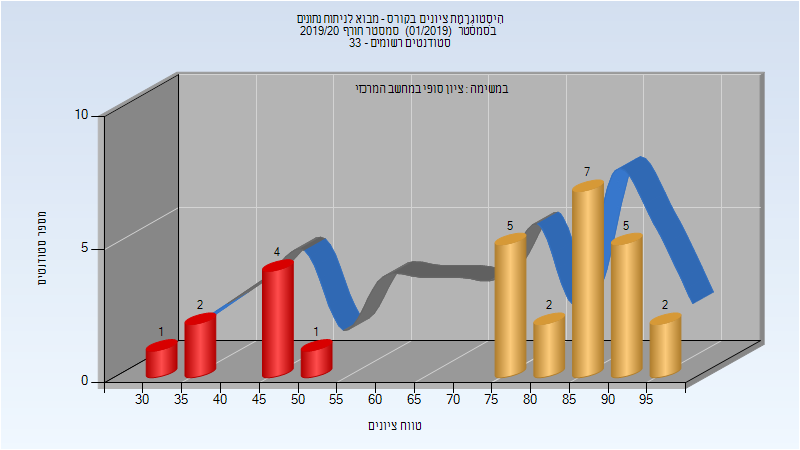
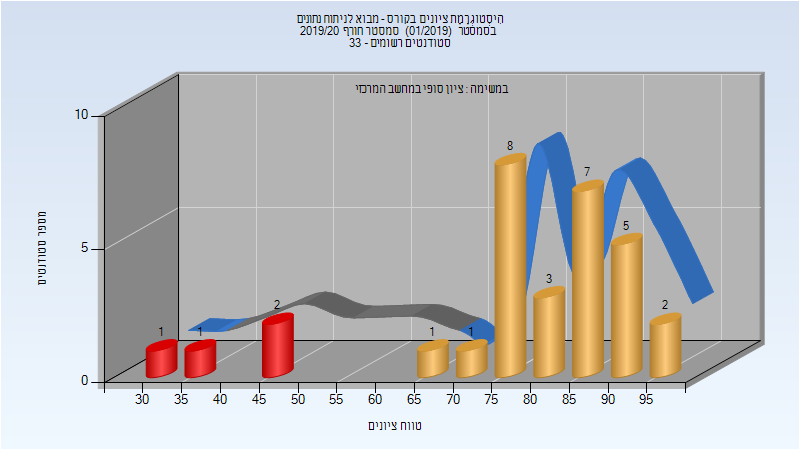
Deploy michael-maltsev/technion-histograms to github.com/michael-maltsev/technion-histograms.git:gh-pages

diff --git a/096202/index.html b/096202/index.html
@@ -217,13 +217,13 @@
 </thead>
 <tbody>
 <tr>
-<td>29</td>
-<td>21/8</td>
-<td>72</td>
+<td>31</td>
+<td>27/4</td>
+<td>87</td>
 <td>30</td>
 <td>97</td>
-<td>74.31</td>
-<td>82</td>
+<td>78.226</td>
+<td>81</td>
 </tr>
 </tbody>
 </table>

diff --git a/096202/README.md b/096202/README.md
@@ -63,5 +63,5 @@
 
 | סטודנטים | עברו/נכשלו | אחוז עוברים | ציון מינימלי | ציון מקסימלי | ממוצע | חציון |
 | ---- | ---- | ---- | ---- | ---- | ---- | ---- |
-| 29 | 21/8 | 72 | 30 | 97 | 74.31 | 82 |
+| 31 | 27/4 | 87 | 30 | 97 | 78.226 | 81 |
 
